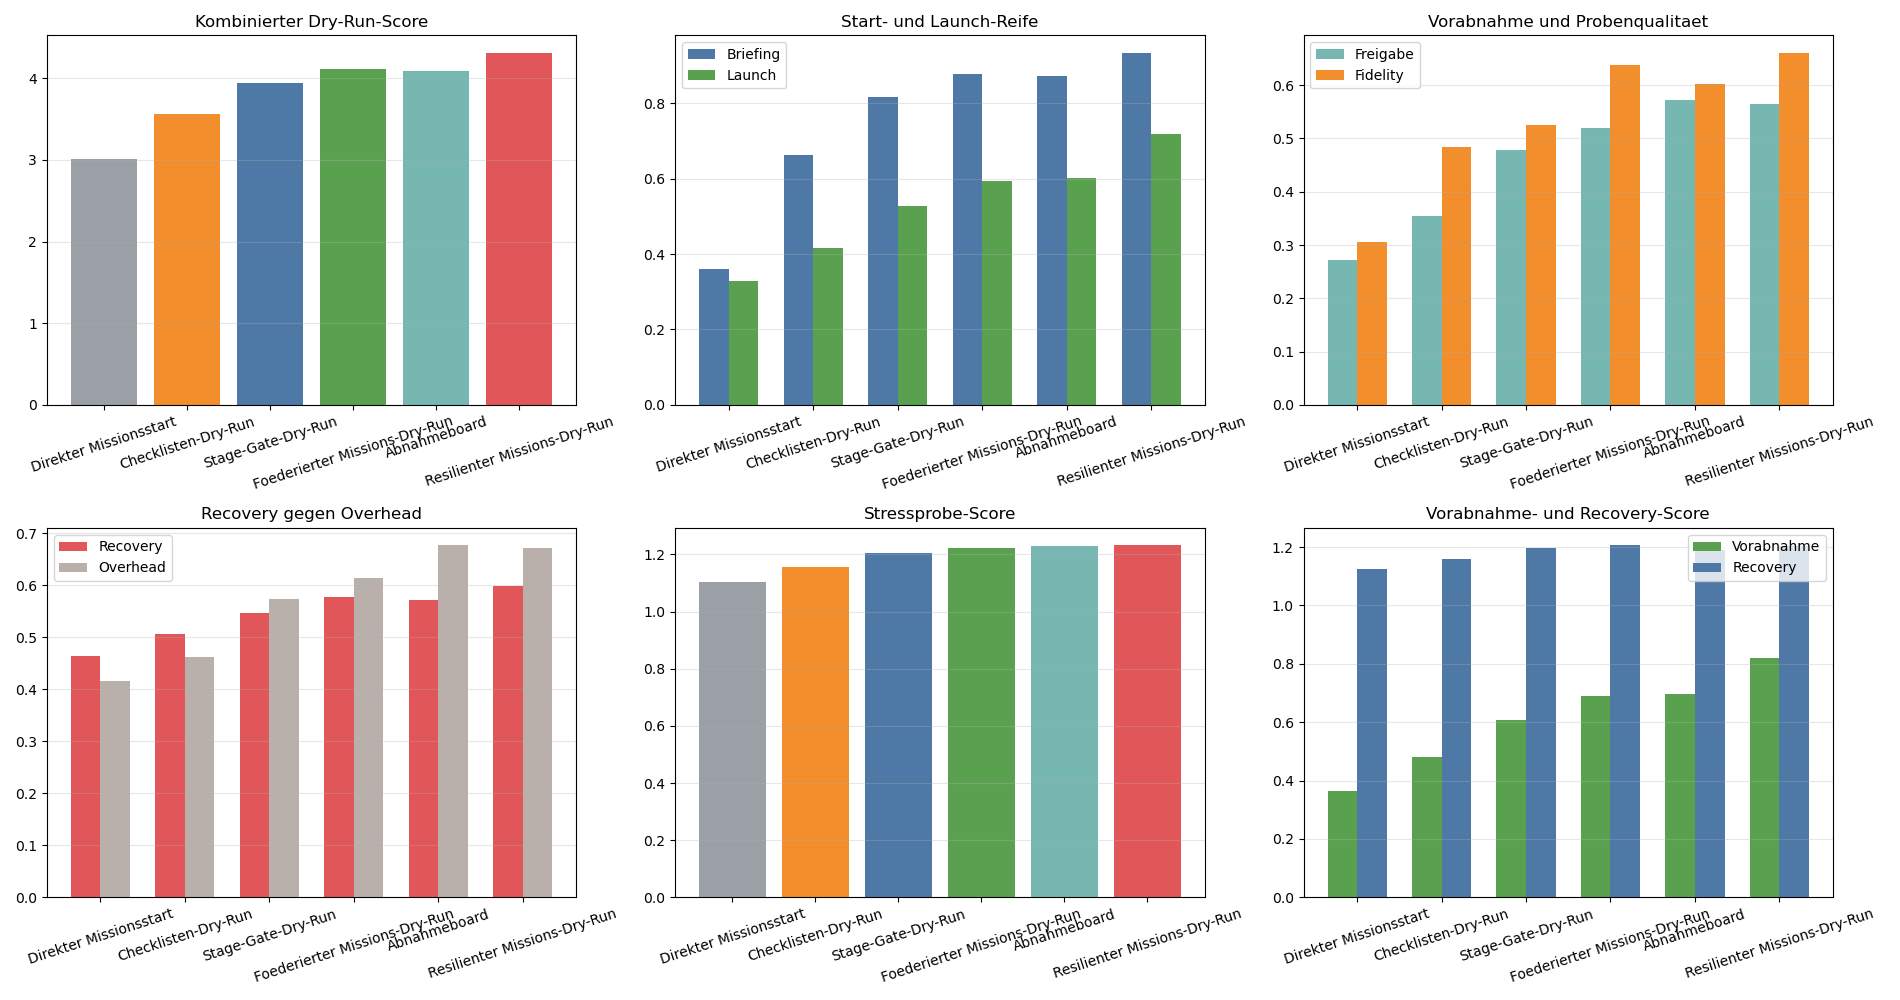
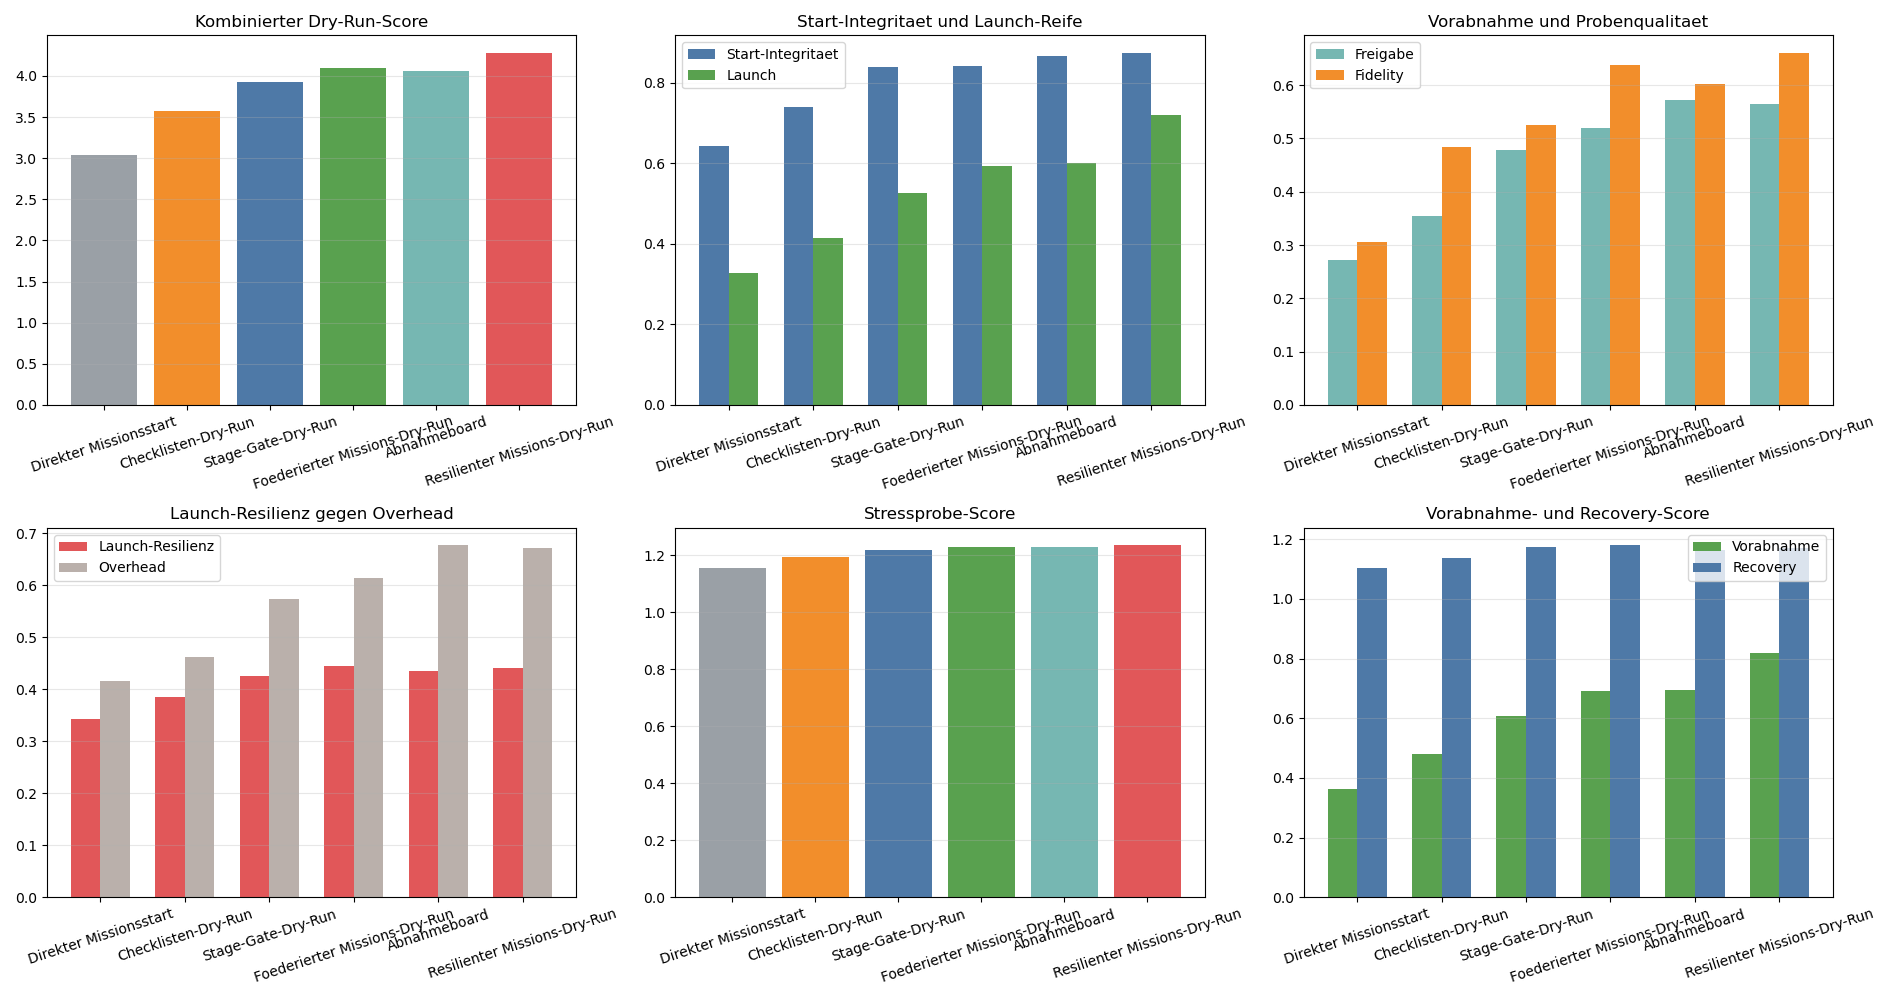
Refine mission dry-run resilience metrics

diff --git a/schwarm_missions_dry_run.py b/schwarm_missions_dry_run.py
@@ -388,6 +388,28 @@ def mission_metrics(config, result, params, profile):
             ]
         )
     )
+    start_integrity = clamp01(
+        mittelwert(
+            [
+                briefing_reliability,
+                approval_readiness,
+                1.0 - workflow.get('misinformation_corruption_mean', 0.0),
+                1.0 - workflow.get('cluster_compromise_mean', 0.0),
+                traceability,
+            ]
+        )
+    )
+    launch_resilience = clamp01(
+        mittelwert(
+            [
+                launch_confidence,
+                recovery_assurance,
+                rehearsal_fidelity,
+                workflow.get('sync_strength_mean', 0.0),
+                1.0 - dry_run_overhead,
+            ]
+        )
+    )
 
     return {
         'completion_rate': workflow.get('completion_rate', 0.0),
@@ -409,6 +431,8 @@ def mission_metrics(config, result, params, profile):
         'approval_readiness': approval_readiness,
         'launch_confidence': launch_confidence,
         'recovery_assurance': recovery_assurance,
+        'start_integrity': start_integrity,
+        'launch_resilience': launch_resilience,
         'dry_run_overhead': dry_run_overhead,
     }
 
@@ -475,15 +499,14 @@ def context_score(kontext_name, result, agent_count):
     if kontext_name == 'stress':
         return (
             base
-            + 0.18 * metrics['approval_readiness']
-            + 0.14 * metrics['launch_confidence']
-            + 0.10 * metrics['recovery_assurance']
-            - 0.12 * metrics['corruption_mean']
+            + 0.18 * metrics['start_integrity']
+            + 0.14 * metrics['launch_resilience']
+            + 0.10 * metrics['approval_readiness']
             - 0.10 * metrics['dry_run_overhead']
         )
     return (
         base
-        + 0.20 * metrics['recovery_assurance']
+        + 0.20 * metrics['launch_resilience']
         + 0.12 * metrics['approval_readiness']
         + 0.08 * metrics['launch_confidence']
         - 0.12 * failed_share
@@ -499,6 +522,8 @@ def summarize_runs(runs, profile, context_list, agent_count):
         'approval_readiness': {},
         'launch_confidence': {},
         'recovery_assurance': {},
+        'start_integrity': {},
+        'launch_resilience': {},
         'dry_run_overhead': {},
     }
 
@@ -553,9 +578,9 @@ def main():
         summaries.append(summary)
         print(
             f"{summary['label']:<31} Score={summary['combined_score']:+.3f} | "
-            f"Start={summary['briefing_reliability']['briefing']:.2f} | "
+            f"Start-Integritaet={summary['start_integrity']['stress']:.2f} | "
             f"Freigabe={summary['approval_readiness']['acceptance']:.2f} | "
-            f"Recovery={summary['recovery_assurance']['recovery']:.2f}"
+            f"Launch-Resilienz={summary['launch_resilience']['recovery']:.2f}"
         )
 
     best = max(summaries, key=lambda item: item['combined_score'])
@@ -567,9 +592,9 @@ def main():
         f"Delta zum direkten Missionsstart {best['combined_score'] - baseline['combined_score']:+.3f}"
     )
     print(
-        f"Freigabe {best['approval_readiness']['acceptance']:.2f}, "
+        f"Start-Integritaet {best['start_integrity']['stress']:.2f}, "
         f"Launch {best['launch_confidence']['acceptance']:.2f}, "
-        f"Recovery {best['recovery_assurance']['recovery']:.2f}"
+        f"Launch-Resilienz {best['launch_resilience']['recovery']:.2f}"
     )
 
     labels = [item['label'] for item in summaries]
@@ -587,9 +612,9 @@ def main():
 
     axes[0, 1].bar(
         x - width / 2,
-        [item['briefing_reliability']['briefing'] for item in summaries],
+        [item['start_integrity']['stress'] for item in summaries],
         width,
-        label='Briefing',
+        label='Start-Integritaet',
         color='#4e79a7',
     )
     axes[0, 1].bar(
@@ -599,7 +624,7 @@ def main():
         label='Launch',
         color='#59a14f',
     )
-    axes[0, 1].set_title('Start- und Launch-Reife')
+    axes[0, 1].set_title('Start-Integritaet und Launch-Reife')
     axes[0, 1].set_xticks(x)
     axes[0, 1].set_xticklabels(labels, rotation=18)
     axes[0, 1].legend()
@@ -627,9 +652,9 @@ def main():
 
     axes[1, 0].bar(
         x - width / 2,
-        [item['recovery_assurance']['recovery'] for item in summaries],
+        [item['launch_resilience']['recovery'] for item in summaries],
         width,
-        label='Recovery',
+        label='Launch-Resilienz',
         color='#e15759',
     )
     axes[1, 0].bar(
@@ -639,7 +664,7 @@ def main():
         label='Overhead',
         color='#bab0ab',
     )
-    axes[1, 0].set_title('Recovery gegen Overhead')
+    axes[1, 0].set_title('Launch-Resilienz gegen Overhead')
     axes[1, 0].set_xticks(x)
     axes[1, 0].set_xticklabels(labels, rotation=18)
     axes[1, 0].legend()
